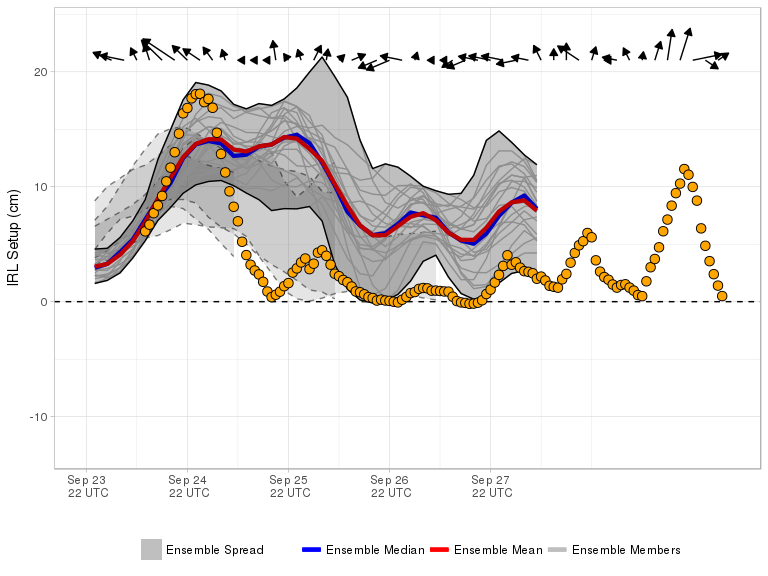
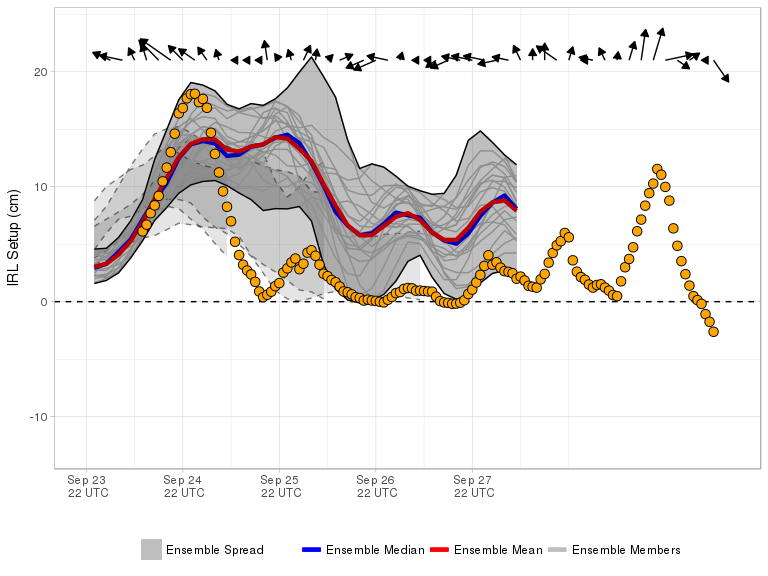
Forecast Update 2020093006

diff --git a/docs/index.md b/docs/index.md
@@ -1,9 +1,9 @@
-Current Forecast 2020-09-30 00Z
+Current Forecast 2020-09-30 06Z
 -----------------------------------
 
 [![](img/raw_setup.png)](https://fit-winds.github.io/IRLSetup/img/raw_setup.png)
 
-> Forecast valid 2020-09-30 01:37:04.
+> Forecast valid 2020-09-30 07:01:10.
 
 Explanation
 -----------
